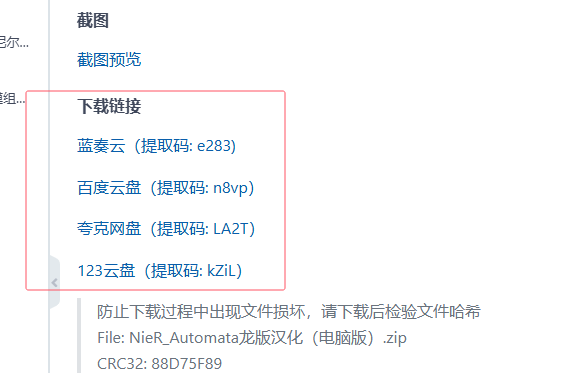
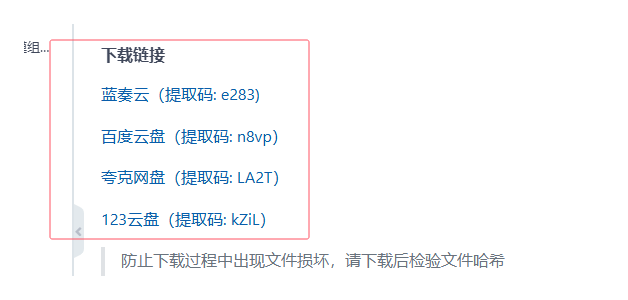
更新 1.3 版

Changed region(s): [[0.0, 0.0, 0.8379, 1.0], [0.1241, 0.03, 0.1862, 0.09]]

diff --git a/README.md b/README.md
@@ -17,82 +17,72 @@
 
 #### 下载链接
 
-[蓝奏云（推荐）（提取码: ck7v)](https://wlongwlong.lanzouj.com/b00wm0o2kh)
-
 [百度云盘（提取码: n8vp）](https://pan.baidu.com/s/1Rkp3olc36IutmCstug2SLg?pwd=n8vp)
-
-[夸克网盘（提取码: LA2T）](https://pan.quark.cn/s/24d581a9aca4)
 
 [123云盘（提取码: kZiL）](https://www.123pan.com/s/Ux9Fjv-3IgZh.html)
 
-> 当前汉化补丁版本号：1.2.2  
+> 当前汉化补丁版本号：1.3  
 > 提示：后续更新提醒和 BUG 修复，只在本仓库和 B 站发布动态。  
 > 欢迎关注我的 [B 站账号](https://space.bilibili.com/316424202)
 
-**电脑端 Steam 版**和**微软 Xbox 版**游戏，只需下载“**NieR_Automata龙版汉化1.2.2（电脑版）.zip**”，解压后，找到“**LangToolsSetup.exe**”即可启动安装程序。  
-**Steam Deck 掌机版**游戏，只需下载“**NieR_Automata龙版汉化(Deck掌机版).zip**”，解压后，将得到的两个新文件手动移动到游戏所在目录中的“**data**”文件夹里，并覆盖同名文件。
+龙版汉化分为 **基础版** 和 **增强版** 两个版本，根据自己的喜好 **二选一下载** 即可。
 
-> File: NieR_Automata龙版汉化1.2.2（电脑版）.zip  
-> MD5: F3BAE2611FA8287F722CA9435780C7CB  
-> SHA-256: 983760E0C97FBA10847DA25F09C880A4131EEC267F1D10AFEF7E9617EFDDBE3F
+ **基础版：** 
+一比一移植的官方翻译，不做任何修改，争取与 NS 掌机的内容相同。官方翻译存在错别字或者汉化不全的问题，4K 分辨率下可能存在字体模糊的情况，适合喜欢原汁原味的玩家。
 
-> File: NieR_Automata龙版汉化(Deck掌机版).zip  
-> MD5: A3D411BC49A37E62E07B6F28F28532B5  
-> SHA-256: 2CF94BC1F5B66C19B3AB1F95BBCF7B1DC0ECE1F2FEBE1098E7DAB9A62FB6C5F1
+ **增强版：** 
+重制所有字体贴图，使之兼容 4K 分辨率。修复官方汉化中出现的错别字，补充官方汉化未翻译的部分，汉化游戏主界面的菜单为中文。
 
-#### 其他链接
+此汉化包兼容 Steam 版，微软商店版，以及 SteamDeck 掌机版，安装方法均相同。
 
-[小黑盒发布预告](https://api.xiaoheihe.cn/v3/bbs/app/api/web/share?link_id=127713295)
-[小黑盒发布帖](https://api.xiaoheihe.cn/v3/bbs/app/api/web/share?link_id=128078568)
-[3DM 发布帖](https://bbs.3dmgame.com/thread-6520678-1-1.html)
+> File: 龙版汉化基础版.zip  
+> MD5: F5E59E78E0881C207CB453BFB2383CFE  
+> SHA-256: BFB0908DA7D893463B645744CB708C6762ED69AC28A8708B1060BC76A50542A6
 
-#### 视频教程
-
-[汉化效果演示](https://www.bilibili.com/video/BV1ZDbUePEqS)
-[汉化的安装](https://www.bilibili.com/video/BV1bMbSeXE6Y)
+> File: 龙版汉增强版.zip  
+> MD5: 339D492E7CF3F2C6BD5F2723F4DF09A0  
+> SHA-256: 6FBD6323E769C39D97B9A1192B55423BEB3AECBDBAD19C1EE61CBA1D4836468C
 
 #### 安装汉化补丁
 
-> 注意：进行以下步骤之前，请手动将自己安装的 Mod 备份，为了保证汉化正常使用，**安装时会自动清除已安装 Mod**。一旦出现任何问题，作者概不负责。  
+> 注意：
+> 如果你已经安装旧的龙版汉化，请打开 LangTools 工具，将汉化补丁移除，然后在开始菜单中将 LangToos 工具从计算机中卸载，并同时选择清除配置文件。现在新的汉化补丁已经用不到 LangToos 程序。
 
 1. 首先要拥有一份干净的游戏文件，即没有装过任何自定义模组和其他汉化程序的游戏文件。
 
 > 干净的游戏文件列表，可以参考[简化版文件列表](other/filelist.txt)或[文件列表截图](other/filelist.png)，以及[完整版文件列表](other/filelistall.txt)。
 
-2. 通过本页面[上方链接](#下载链接)下载最新软件包。
+2. 通过本页面[上方链接](#下载链接)下载最新汉化包。
 
 ![](tutorial/001.png)
 
-3. 将下载得到的“NieR_Automata龙版汉化（电脑版）.zip”文件解压到任意自己能找到的位置。
+3. 将下载得到的“龙版汉化XX版.zip”文件解压到任意自己能找到的位置。
 
 ![](tutorial/002.png)
 
-4. 在解压出来的文件中找到“LangToolsSetup.exe”，双击启动龙版汉化安装程序。  
-安装程序为后台执行，并不会显示安装界面。  
-只需稍等片刻，当安装完成后会自动打开汉化管理程序，并且会在桌面添加汉化管理程序的快捷方式。  
-当看到汉化管理程序已经启动时，之前下载的“NieR_Automata龙版汉化（电脑版）.zip”文件和解压出来的相关文件已经用不到了，可以手动删除。
+4. 找到游戏的安装目录并打开。
 
-![](tutorial/003.png)
+> Steam 版：  
+> ![](tutorial/003.png)
 
-5. 选择游戏文件所在位置，默认情况下，如果你是 Steam 正版玩家，并且已经正常安装好了游戏，程序可以自动获取到游戏文件的位置。  
-对于微软 Xbox 版玩家，程序并不能正常识别游戏文件的路径，因为我没有游戏本体，暂时无法添加此功能。
-如果你的游戏是微软 Xbox 版，或者某些特殊情况下，程序没有获取到正确的游戏位置，那么只需要启动一次游戏，点击程序右上角的“自动定位”按钮就可以自动填写游戏路径。  
-如果“自动定位”报错或者没有找到游戏路径，请通过鼠标右键菜单“以管理员身份运行”补丁安装程序。
+> Xbox 版：  
+> ![](tutorial/004.png)
 
-![](tutorial/004.png)
-
-6. 确保游戏路径选择正确，在下面勾选需要安装的组件。 **务必将游戏关闭** ，然后点击“安装”按钮，等待提示完成即可。
+5. 将游戏目录中 data 文件夹里的“data100.cpk”文件备份或者重命名，以便后续进行还原。
 
 ![](tutorial/005.png)
 
-7. 关闭补丁管理程序，打开 Steam，进入库的 NieR:Automata 页面。点击右边齿轮，选择“属性。”  
+6. 将“data100.cpk”和“data201.cpk”两个文件，移动到游戏的 data 文件夹中，覆盖同名文件。
+
+![](tutorial/011.png)
+
+7. 打开 Steam，进入库的 NieR:Automata 页面。点击右边齿轮，选择“属性。”  
 在“通用”选项卡中，将语言改成“德语”后，游戏即可显示简体中文。如果需要繁体中文，请将语言改成“西班牙语”。（此步骤只影响游戏启动时的第一次 Loading 动画的显示语言，对游戏本身的显示语言并无影响）
 
 ![](tutorial/006.png)
 ![](tutorial/007.png)
 
-8. 正常情况下，新版本汉化补丁安装程序已经帮你把游戏语言的设置修改成简体中文了。  
-如果还没有显示对应语言，只需要再在游戏内切换一下语言即可。（游戏主界面的菜单被官方写死为英文，游戏本身不支持主菜单的多语言切换，以进入游戏能看到中文为准）
+8. 启动游戏，打开游戏选项，将语言调成“简体中文”或“繁体中文”即可。
 
 ![](tutorial/010.png)
 
@@ -100,11 +90,11 @@
 
 #### 移除汉化补丁
 
-1. 在桌面或者开始菜单中找到 LangTools 程序的快捷方式，启动它。
+1.打开游戏的安装目录。
 
-2. 设定好游戏文件夹的路径（正常情况下，默认已经设置好）。
+2.删除游戏目录中 data 文件夹里的“data100.cpk”和“data201.cpk”两个文件。
 
-3. 点击程序右下角的“移除汉化”按钮，等待提示完成即可。
+3.将安装时备份的“data100.cpk”文件还原到 data 文件夹里。
 
 #### 关于补丁安装出错的处理方案
 
@@ -117,8 +107,6 @@
 
 ![](tutorial/008.png)
 ![](tutorial/009.png)
-
-导致汉化安装不成功的另一个潜在原因是，游戏路径没有正确填写。虽然程序添加了诸多判断条件防止路径填写错误，但还是存在考虑不周的情况，所以需要再三确认游戏路径是否填写正确。
 
 其他无法解决的问题，请加 QQ 群询问。
 
@@ -141,30 +129,11 @@
 
 由于本汉化程序现阶段基于 Steam 平台的优尔哈版制作，而微软版与 Steam 版游戏文件基本相似，所以直接安装可以使用。但相似不等于相同，至于会不会出现兼容性问题，还有待大家测试。
 
-#### 关于此补丁尚未翻译的部分
-
-官方并没有翻译游戏主菜单，因此目前版本追求原汁原味依然保留默认英文。  
-至于游戏主界面中，顶部选项卡“MAP”、“QUEST”、“ITEM”、“WEAPON”、“SKILL”、“DATA”、“SYSTEAM”，属于官方为了游戏沉浸感，刻意保留的英文。  
-以及， **游戏一周目中 BOSS 的名字并非没有翻译，而是尼尔世界中的天使文字** ，与我们现实世界的文字并不相同，因此天邈、轩辕的中文翻译属于误翻。  
-除此之外，只有设置界面中关于“FidelityFX CAS”相关的两个选项没有汉化，鉴于 Switch 本身就没有这两个选项，因此当前版本暂时保留英文。  
-
-如果，其他地方还存在没有翻译的地方，请检查汉化补丁是否安装完整，以及是否安装了其他 MOD。  
-如果确认是汉化补丁存在疏漏，请指明所在位置、复现方法等，并及时向我提出反馈。
-
-目前，在 QQ 群中，我已经制作并发布了新的字体重制补丁。新的字体补丁重做了全部文字，在 4K 分辨率的环境下不会模糊，并且完整翻译了上述所说的所有英文内容，包括主菜单、主界面、设置中的选项等。
-
 #### 已知问题
 
 关于游乐园 Boss 的名字与 Switch 版游戏显示不相同的问题，这其实并不是汉化导致的 BUG。因为官方为她设置了两个不同名字的词条，在不同的语言中会分别调用各自的词条。比如日文中显示的是“ボーヴォワール”，翻译成中文意思大概是“波娃”，而英文中显示的是“Simone”，翻译成中文也就是“西蒙”。虽然可以强制将文本改过来，但这会导致中文翻译与对应词条的意思不相同，这很不优雅甚至会导致新的 BUG，所以这个版本暂时不打算做任何修改。
 
-#### 为什么龙版汉化只能通过安装器来安装？
-
-将汉化补丁做成安装器版本我有**多种考虑**。  
-首先，龙版汉化不会在游戏界面里加入任何侵入式、让人看着不舒服的版权信息。比如3DM和天邈会在游戏主菜单加入明显的版权标识，这会让我感到很不舒服。这也是我决心制作龙版汉化的主要原因之一。  
-正因为龙版汉化内部不存在任何版权信息，为了保证汉化不被一些人出售、盗取，非法修改等。所以龙版汉化强制绑定了一个汉化管理器程序，用来提示使用者所使用的汉化来自龙版汉化，当然这个管理器程序提供了**明显的卸载功能**，方便用户将之删除。毕竟不管怎样都是只防君子不防小人，我也仅仅是尽力而为。  
-其次，考虑到大多数游戏玩家对于计算机常识了解有限，如果能让玩家实现一键安装卸载汉化，那自然可以让不少人少走弯路。除此之外，我还为汉化管理器添加了一些实用功能，比如加入了强大且免费的风灵月影修改器，我开发的存档替换工具等。  
-虽然龙版汉化经过多次更新，目前常规游玩已经没有问题，但可能还会存在一些尚未发现的小问题。所以附带一个汉化管理程序来实现汉化补丁的即时更新就非常有必要，因为大部分人只要没遇到问题就不可能考虑更新汉化程序。考虑到如果网络上散布的文件版本过于零散，这会对我收集使用者遇到的问题而造成不必要的负担，统一版本让所有玩家的汉化都是最新的，也可以解决很多没必要的麻烦。  
-另外，龙版汉化是**完全免费**的，如果有人通过任何途径出售，一律都是骗子。
+本补丁基于 21 版游戏文件提取制作，因此目前不支持 17 版游戏，等以后有时间会添加 17 版的支持。
 
 #### 问题反馈和游戏模组交流
 
